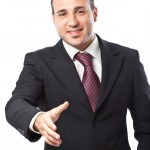
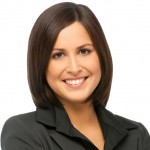
actualizando

diff --git a/page/nosotros.html b/page/nosotros.html
@@ -69,7 +69,7 @@
                     <p>Con más de 15 años en transporte y logística, lidera la planificación de rutas, la atención al cliente y el crecimiento de la empresa.</p>
                 </div>
                 <div class="persona">
-                    <img src="../imagenes/nosotros2.jpg" alt="Roberto Ramirez">
+                    <img src="../imagenes/nosotros7.jpg" alt="Roberto Ramirez">
                     <h5>Roberto Ramirez</h5>
                     <h6>Gerente de Sistemas</h6>
                     <p>Coordina las plataformas de reservas y supervisa el mantenimiento de la flota para que cada viaje salga sin contratiempos.</p>
@@ -91,6 +91,12 @@
                     <h5>Laura Mendoza</h5>
                     <h6>Coordinadora de Operaciones</h6>
                     <p>Supervisa las rutas y el trabajo de los conductores, asegurando que cada viaje llegue a destino con calidad y seguridad.</p>
+                </div>
+                <div class="persona">
+                    <img src="../imagenes/nosotros6.jpg" alt="Matias fernandez">
+                    <h5>Matias fernandez</h5>
+                    <h6>Director de Recursos Humanos</h6>
+                    <p>Gestiona el talento de la empresa,cuidando la selección y el desarrollo del equipo.</p>
                 </div>
             </div>
         </section>

diff --git a/css/stilos.css b/css/stilos.css
@@ -33,6 +33,7 @@ header h1 {
 
 nav {
     background-color: #6da9ed;
+
 }
 nav ul {
     list-style: none;
@@ -44,6 +45,7 @@ nav ul {
     gap: 0.5rem;
     flex-wrap: wrap;
 }
+
 nav ul li {
     flex: 1 1 auto;
     text-align: center;
@@ -63,6 +65,7 @@ nav ul li a:hover {
 
 nav ul li a.activo {
     background-color: #4c76a5;
+    border-radius: 4px;
 }
 
 @media (max-width: 640px) {
@@ -80,7 +83,6 @@ nav ul li a.activo {
         overflow: hidden;
         text-overflow: ellipsis;
     }
-    /* make the active link look like a pill but not overflow */
     nav ul li a.activo {
         border-radius: 6px;
         display: inline-block;